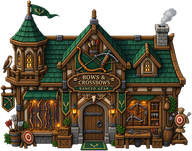
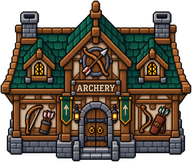
Swap in a more cohesive bank/church/shop art set
The user's second matched set (Bank/Church/DistanceShop/MeleeShop/
MagicPotion.png) shares one consistent template (paired chimneys,
dormer windows, arched stone door) across all five, reading as one
matched row of storefronts rather than five separately-styled
buildings. Same crop-to-bbox + Lanczos downscale pipeline as before
(checkerboard-to-alpha conversion for Church.png and MagicPotion.png,
which needed it; Bank/DistanceShop/MeleeShop already had real alpha).

All five land within a few px of their predecessors' size at the same
6-tile-wide footprint, so this is a straight file swap at the existing
buildings/*.png paths — no tilemap.ts or asset-key changes needed.

diff --git a/src/data/assets.ts b/src/data/assets.ts
@@ -197,13 +197,13 @@ export const IMAGE_ASSETS: ImageAsset[] = [
   { key: "building-house5", path: "buildings/house5_01.png", smooth: true },
   { key: "building-house6", path: "buildings/house6_01.png", smooth: true },
   { key: "building-house7", path: "buildings/house7_01.png", smooth: true },
-  // The five named service buildings the user supplied (bankhouse/temple/
-  // distanceshop/meleeshop/potionmagicshop, not checked into the repo) —
-  // four already had real alpha; only temple.png needed the checkerboard
-  // conversion the houses above use. Same crop-to-bbox + Lanczos downscale
-  // treatment, sized a notch larger (6 tiles wide) than the plain houses
-  // since these read as grander storefronts with their own signage baked
-  // in. Replaces the old procedural building-church for temple_main.
+  // The five named service buildings — currently the user's second matched
+  // set (Bank/Church/DistanceShop/MeleeShop/MagicPotion.png, not checked
+  // into the repo), replacing an earlier mismatched set the same way. Same
+  // crop-to-bbox + Lanczos downscale treatment as the houses (checkerboard
+  // conversion for the two that needed it), sized a notch larger (6 tiles
+  // wide) since these read as grander storefronts with their own signage
+  // baked in. building-temple is used for temple_main.
   { key: "building-bank", path: "buildings/bank_01.png", smooth: true },
   { key: "building-melee-shop", path: "buildings/melee_shop_01.png", smooth: true },
   { key: "building-ranged-shop", path: "buildings/ranged_shop_01.png", smooth: true },
